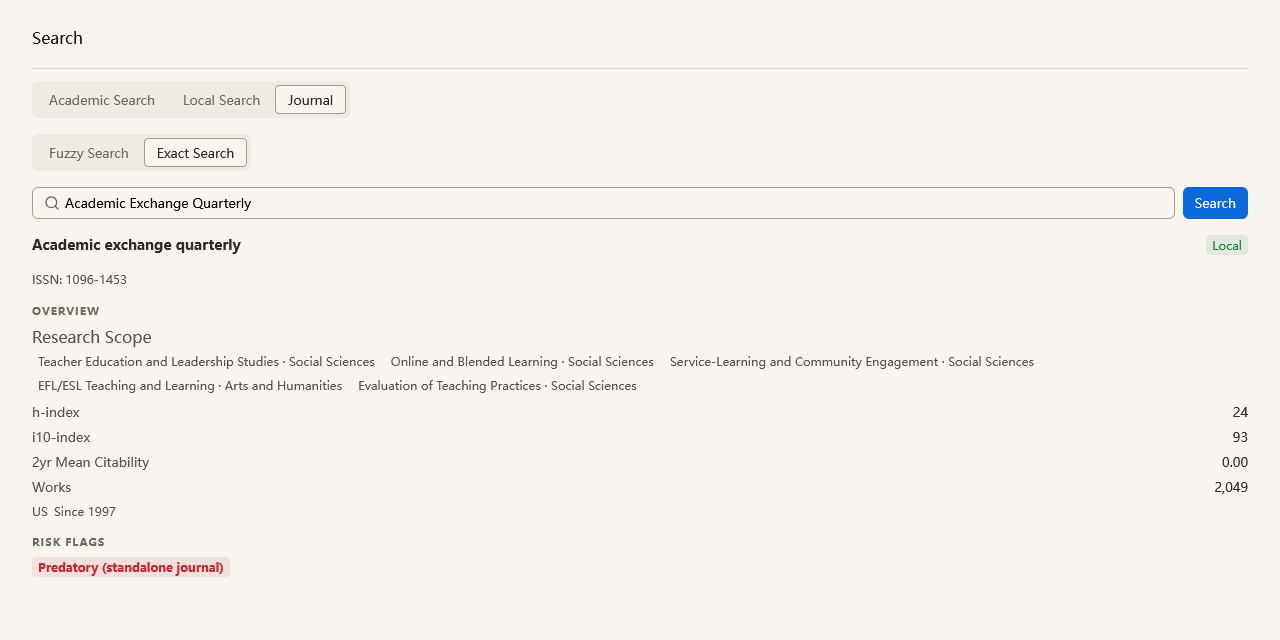
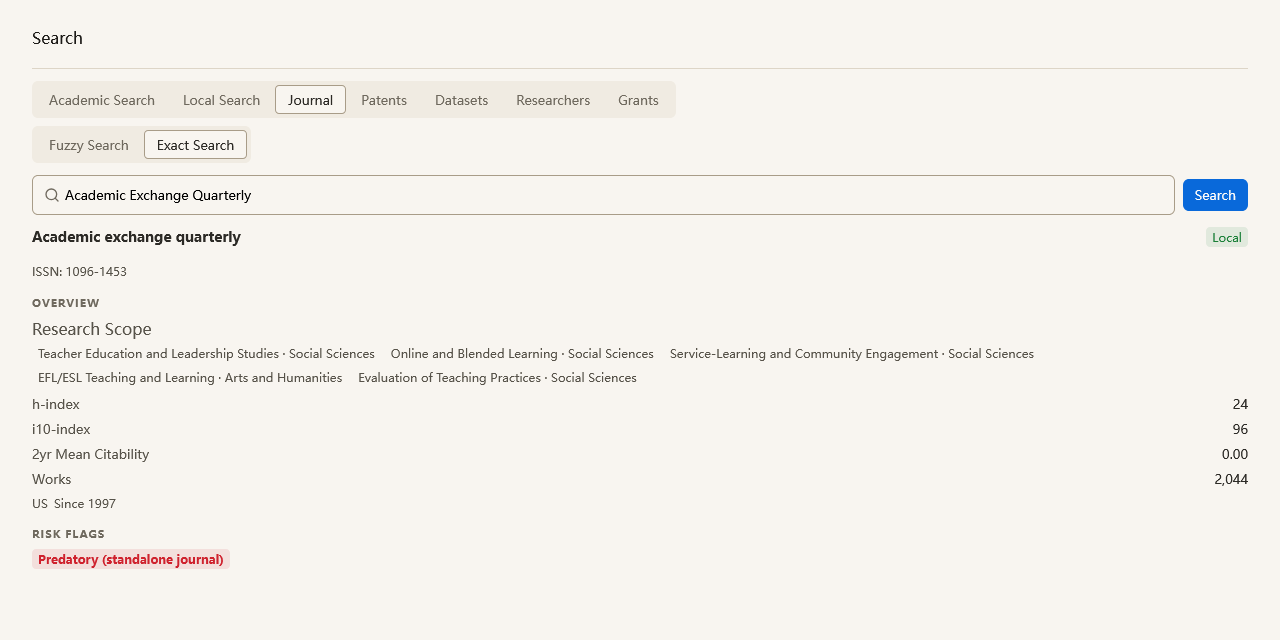
test(tests): README 六图重摄 v2.2.0 界面 + 截图用例确定性双修
六张 README 截图摄于 10-14 的 v1.10.0 时期，v2.0.0 起的页签结构、
内置新锐分区数据集、状态条文案均已过时。Zotero 10 实机重摄，
8 个用例全部通过。

六图更新（docs/screenshots/）：
- search-results-en/zh：页签行扩为七域（学术检索/本地搜索/期刊/
  专利/数据集/研究者/基金项目）；文献用例检索完成后切「引用最多」
  再截——相关度序的首屏常被缺期刊/作者元数据的最新条目占满，图注
  承诺的 IF/被引/分区徽章无从展示；被引序首屏稳定为元数据齐全的
  高被引卡（Science/Cell 级卡：IF 47.8、被引 6364、JCR Q1/一区/
  顶/新锐一区齐全）；
- journal-metrics-en/zh：同套新页签，指标卡带本地徽章与掠夺性标记；
- journal-discover-en/zh：行列表带新锐分区徽章。

截图脚本两处修复（各带注释）：
- 文献截图用例（hub-visual-search、zzz-readme-shots-zh）加「引用
  最多」点击，理由同上；
- 三套件的 screenshotHub 捕获前向 Hub iframe 注入
  scrollbar-width:none、finally 移除——悬浮滚动条拇指在列表刚渲染
  完时未必已淡出，drawWindow 把它一并栅格进图，1px 竖线压在排序
  chips 上，曾误判为布局溢出（像素级取证实证：档位右缘一直在
  1248 的内容区内，布局无溢出，旧图无此线属时机巧合）。

diff --git a/tests/zotero/hub-visual-search.spec.js b/tests/zotero/hub-visual-search.spec.js
@@ -257,20 +257,40 @@ describe("z-search hub visual search verification (real Zotero + real network)",
         await Zotero.Promise.delay(800);
       }
     }
-    const canvas = doc.createElementNS(
-      "http://www.w3.org/1999/xhtml",
-      "canvas",
-    );
-    canvas.width = w;
-    canvas.height = h;
-    canvas.getContext("2d").drawWindow(hubWin, 0, 0, w, h, "rgb(255,255,255)");
-    const b64 = canvas.toDataURL("image/png").split(",")[1];
-    const bin = Uint8Array.from(atob(b64), (c) => c.charCodeAt(0));
-    await ensureOutDir();
-    const path = PathUtils.join(OUT_DIR, name);
-    // putContentsAsync 不收 Uint8Array——二进制走 IOUtils.write
-    await IOUtils.write(path, bin);
-    OUTPUTS[name] = path;
+    // 捕获前隐去滚动条：Hub 视图的悬浮滚动条拇指在列表刚渲染完时未必
+    // 已淡出，drawWindow 会把它一并栅格进图（1px 竖线压在结果头上）。
+    // 悬浮式不占布局，隐掉不改排版。
+    const iframeDoc = doc.getElementById("zsearch-hub-iframe")?.contentDocument;
+    let hideScrollbars = null;
+    if (iframeDoc?.head) {
+      hideScrollbars = iframeDoc.createElementNS(
+        "http://www.w3.org/1999/xhtml",
+        "style",
+      );
+      hideScrollbars.textContent = "* { scrollbar-width: none !important; }";
+      iframeDoc.head.appendChild(hideScrollbars);
+      await Zotero.Promise.delay(200);
+    }
+    try {
+      const canvas = doc.createElementNS(
+        "http://www.w3.org/1999/xhtml",
+        "canvas",
+      );
+      canvas.width = w;
+      canvas.height = h;
+      canvas
+        .getContext("2d")
+        .drawWindow(hubWin, 0, 0, w, h, "rgb(255,255,255)");
+      const b64 = canvas.toDataURL("image/png").split(",")[1];
+      const bin = Uint8Array.from(atob(b64), (c) => c.charCodeAt(0));
+      await ensureOutDir();
+      const path = PathUtils.join(OUT_DIR, name);
+      // putContentsAsync 不收 Uint8Array——二进制走 IOUtils.write
+      await IOUtils.write(path, bin);
+      OUTPUTS[name] = path;
+    } finally {
+      hideScrollbars?.remove();
+    }
   }
 
   // 切走前的应用 locale（after() 恢复）——本套件按字母序最先跑，后面还有
@@ -390,6 +410,10 @@ describe("z-search hub visual search verification (real Zotero + real network)",
       );
       // 等检索收尾（「取消」钮变回「搜索」，状态条脱离「检索中」置灰态）
       await waitFor(() => !!findBtn(/^(Search|搜索)$/), 60000);
+      // README 图切「引用最多」（客户端按被引降序）：相关度序的首屏常被
+      // 缺期刊/作者元数据的 ahead-of-print 条目占满，图注承诺的 IF/分区
+      // 徽章无从展示；被引序首屏稳定是元数据齐全的高被引卡。
+      findBtn(/^(Most Cited|引用最多)$/)?.click();
       await Zotero.Promise.delay(1500);
 
       // 把带 IF 徽章的卡滚进视口（虚拟列表只在视口内挂载行）

diff --git a/tests/zotero/zzz-readme-shots-zh/zzz-readme-shots-zh.spec.js b/tests/zotero/zzz-readme-shots-zh/zzz-readme-shots-zh.spec.js
@@ -160,19 +160,39 @@ describe("z-search readme screenshots (literature/journal tabs, zh-CN)", functio
         await Zotero.Promise.delay(800); // 等 React 按新视口重排
       }
     }
-    const canvas = doc.createElementNS(
-      "http://www.w3.org/1999/xhtml",
-      "canvas",
-    );
-    canvas.width = w;
-    canvas.height = h;
-    canvas.getContext("2d").drawWindow(hubWin, 0, 0, w, h, "rgb(255,255,255)");
-    const b64 = canvas.toDataURL("image/png").split(",")[1];
-    const bin = Uint8Array.from(atob(b64), (c) => c.charCodeAt(0));
-    await ensureOutDir();
-    const path = PathUtils.join(OUT_DIR, name);
-    await IOUtils.write(path, bin);
-    OUTPUTS[name] = path;
+    // 捕获前隐去滚动条：Hub 视图的悬浮滚动条拇指在列表刚渲染完时未必
+    // 已淡出，drawWindow 会把它一并栅格进图（1px 竖线压在排序 chips 上
+    // ——2026-10-29 README 图实证）。悬浮式不占布局，隐掉不改排版。
+    const iframeDoc = doc.getElementById("zsearch-hub-iframe")?.contentDocument;
+    let hideScrollbars = null;
+    if (iframeDoc?.head) {
+      hideScrollbars = iframeDoc.createElementNS(
+        "http://www.w3.org/1999/xhtml",
+        "style",
+      );
+      hideScrollbars.textContent = "* { scrollbar-width: none !important; }";
+      iframeDoc.head.appendChild(hideScrollbars);
+      await Zotero.Promise.delay(200);
+    }
+    try {
+      const canvas = doc.createElementNS(
+        "http://www.w3.org/1999/xhtml",
+        "canvas",
+      );
+      canvas.width = w;
+      canvas.height = h;
+      canvas
+        .getContext("2d")
+        .drawWindow(hubWin, 0, 0, w, h, "rgb(255,255,255)");
+      const b64 = canvas.toDataURL("image/png").split(",")[1];
+      const bin = Uint8Array.from(atob(b64), (c) => c.charCodeAt(0));
+      await ensureOutDir();
+      const path = PathUtils.join(OUT_DIR, name);
+      await IOUtils.write(path, bin);
+      OUTPUTS[name] = path;
+    } finally {
+      hideScrollbars?.remove();
+    }
   }
 
   // ── locale 强制（与英文版套件同一套 before/after 机制，方向换成 zh-CN）──
@@ -262,6 +282,10 @@ describe("z-search readme screenshots (literature/journal tabs, zh-CN)", functio
       );
       // 等检索收尾（「取消」钮变回「搜索」，状态条脱离「检索中」置灰态）
       await waitFor(() => !!findBtn(/^(Search|搜索)$/), 60000);
+      // README 图切「引用最多」（客户端按被引降序）：相关度序的首屏常被
+      // 缺期刊/作者元数据的 ahead-of-print 条目占满，图注承诺的 IF/分区
+      // 徽章无从展示；被引序首屏稳定是元数据齐全的高被引卡。
+      findBtn(/^(Most Cited|引用最多)$/)?.click();
       await Zotero.Promise.delay(1500);
 
       // 把带 IF 徽章的卡滚进视口（虚拟列表只在视口内挂载行）

diff --git a/tests/zotero/zz-readme-shots/zz-readme-shots.spec.js b/tests/zotero/zz-readme-shots/zz-readme-shots.spec.js
@@ -159,19 +159,39 @@ describe("z-search readme screenshots (journal tab, en-US)", function () {
         await Zotero.Promise.delay(800); // 等 React 按新视口重排
       }
     }
-    const canvas = doc.createElementNS(
-      "http://www.w3.org/1999/xhtml",
-      "canvas",
-    );
-    canvas.width = w;
-    canvas.height = h;
-    canvas.getContext("2d").drawWindow(hubWin, 0, 0, w, h, "rgb(255,255,255)");
-    const b64 = canvas.toDataURL("image/png").split(",")[1];
-    const bin = Uint8Array.from(atob(b64), (c) => c.charCodeAt(0));
-    await ensureOutDir();
-    const path = PathUtils.join(OUT_DIR, name);
-    await IOUtils.write(path, bin);
-    OUTPUTS[name] = path;
+    // 捕获前隐去滚动条：Hub 视图的悬浮滚动条拇指在列表刚渲染完时未必
+    // 已淡出，drawWindow 会把它一并栅格进图（1px 竖线压在排序 chips 上
+    // ——2026-10-29 README 图实证）。悬浮式不占布局，隐掉不改排版。
+    const iframeDoc = doc.getElementById("zsearch-hub-iframe")?.contentDocument;
+    let hideScrollbars = null;
+    if (iframeDoc?.head) {
+      hideScrollbars = iframeDoc.createElementNS(
+        "http://www.w3.org/1999/xhtml",
+        "style",
+      );
+      hideScrollbars.textContent = "* { scrollbar-width: none !important; }";
+      iframeDoc.head.appendChild(hideScrollbars);
+      await Zotero.Promise.delay(200);
+    }
+    try {
+      const canvas = doc.createElementNS(
+        "http://www.w3.org/1999/xhtml",
+        "canvas",
+      );
+      canvas.width = w;
+      canvas.height = h;
+      canvas
+        .getContext("2d")
+        .drawWindow(hubWin, 0, 0, w, h, "rgb(255,255,255)");
+      const b64 = canvas.toDataURL("image/png").split(",")[1];
+      const bin = Uint8Array.from(atob(b64), (c) => c.charCodeAt(0));
+      await ensureOutDir();
+      const path = PathUtils.join(OUT_DIR, name);
+      await IOUtils.write(path, bin);
+      OUTPUTS[name] = path;
+    } finally {
+      hideScrollbars?.remove();
+    }
   }
 
   // ── locale 强制（同 hub-visual-search 的 before/after 机制）──
